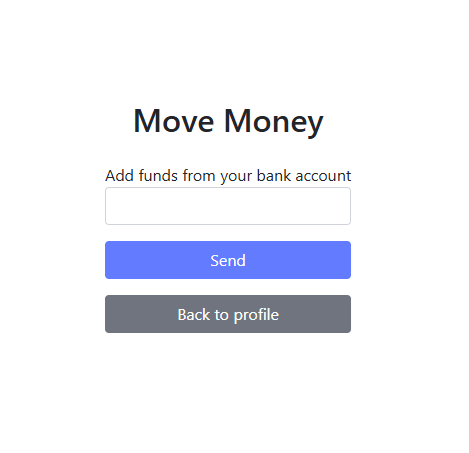
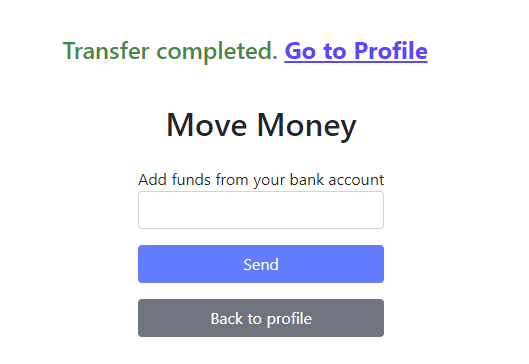
Put again slug and age fields to avoid bug. Add more content to the readme document

diff --git a/static/css/style.css b/static/css/style.css
@@ -108,22 +108,18 @@
 @media screen and (min-height: 800px) {
     .content-extention{
         margin-top: 68%;
-        margin-bottom: 68%;
     }
 
     .content-extention-2 {
         margin-top: 45%;
-        margin-bottom: 45%;
     }
     
     .content-extention-3 {
         margin-top: 75%;
-        margin-bottom: 75%;
     }
 
     .content-extention-4 {
         margin-top: 33%;
-        margin-bottom: 33%;
     }
 
     /* Footer */
@@ -143,22 +139,18 @@
 
     .content-extention{
         margin-top: 26%;
-        margin-bottom: 26%;
     }
 
     .content-extention-2 {
         margin-top: 25%;
-        margin-bottom: 25%;
     }
     
     .content-extention-3 {
         margin-top: 45%;
-        margin-bottom: 45%;
     }
 
     .content-extention-4 {
         margin-top: 38%;
-        margin-bottom: 38%;
     }
 
     #signup_form{
@@ -174,22 +166,18 @@
 
     .content-extention{
         margin-top: 37%;
-        margin-bottom: 37%;
     }
 
     .content-extention-2 {
-        margin-top: 35%;
-        margin-bottom: 35%;
+        margin-top: 3%;
     }
     
     .content-extention-3 {
         margin-top: 50%;
-        margin-bottom: 50%;
     }
 
     .content-extention-4 {
         margin-top: 38%;
-        margin-bottom: 38%;
     }
 
     #sig-up-container {
@@ -205,22 +193,19 @@
 
     .content-extention{
         margin-top: 13%;
-        margin-bottom: 13%;
     }
 
     .content-extention-2 {
-        margin-top: 14%;
-        margin-bottom: 14%;
+        margin-top: 8%;
     }
     
     .content-extention-3 {
         margin-top: 22%;
-        margin-bottom: 22%;
     }
 
     .content-extention-4 {
         margin-top: 18%;
-        margin-bottom: 18%;
+        
     }
 
     #sig-up-container {

diff --git a/saving/templates/account/change_pot_name.html b/saving/templates/account/change_pot_name.html
@@ -17,6 +17,13 @@
     <form method="post">
         {% csrf_token %}
         {{ change_name_form|crispy }}
+        <!-- Hide the Name label manually -->
+        <style>
+            .form-group label[for="id_name"],
+            .form-label[for="id_name"] {
+                display: none !important;
+            }
+        </style>
         <button type="submit" class="btn btn-primary">Change Name</button>
         <a href="{% url 'saving-pot-details' pot_id=saving_pot.id %}" class="btn btn-secondary">Cancel</a>
     </form>

diff --git a/saving/migrations/0008_profile_age_profile_slug.py b/saving/migrations/0008_profile_age_profile_slug.py
@@ -1,0 +1,23 @@
+# Generated by Django 4.2.13 on 2024-07-13 19:28
+
+from django.db import migrations, models
+
+
+class Migration(migrations.Migration):
+
+    dependencies = [
+        ('saving', '0007_alter_savingpot_balance'),
+    ]
+
+    operations = [
+        migrations.AddField(
+            model_name='profile',
+            name='age',
+            field=models.IntegerField(default=0),
+        ),
+        migrations.AddField(
+            model_name='profile',
+            name='slug',
+            field=models.SlugField(default='default-slug', max_length=200, unique=True),
+        ),
+    ]

diff --git a/saving/models.py b/saving/models.py
@@ -6,7 +6,8 @@ class Profile(models.Model):
     user = models.ForeignKey(
         User, on_delete=models.CASCADE, related_name="profile"
     )
-
+    slug = models.SlugField(max_length=200, unique=True, default="default-slug")
+    age = models.IntegerField(default=0)
     email = models.EmailField(max_length=200, unique=True)
     nominated_bank_account = models.DecimalField(max_digits=8, decimal_places=0)
     main_balance = models.DecimalField(max_digits=10, decimal_places=2, default=0.00)

diff --git a/README.md b/README.md
@@ -52,19 +52,21 @@ For project purposes the fundtionality for adding and takien funds from nominate
 - **Move Money**
   - The user adds funds from their bank account to the main balance
   - Back to profile button to go back to the profile 
+  - Successfull message will tell the user if it was successful and link to go back to profile page.
 
   ![Move money page](/static/images/move-money.png)
 
 - **Open new pot**
   - Will allow the user to create a new pot
   - User can name the pot
+  - Successfull message will tell the user if it was successful and link to go back to profile page.
 
   ![open new pot page](/static/images/open-new-pot.png) 
 
 - **Saving pot details**
   - Will show the amount the user have it the pot
   - Have the option to add funds from the main balance to the pod
-  - Close the pot option will direct the user to the close pot pageMain balance before adding funds to a pot
+  - Close the pot option will direct the user to the close pot Main balance before adding funds to a pot
 
   Main balance before transfering funds to pot
 
@@ -81,6 +83,12 @@ For project purposes the fundtionality for adding and takien funds from nominate
   Pot balance after adding funds
 
   ![saving pot balance after adding funds](/static/images/saving-pot-after-adding-funds.png)
+
+- **Change pot name**
+  - User can change the name of current pot.
+  - Successfull message will tell the user if it was successful and link to go back to profile page.
+
+  ![imae of the change pot name with successful message](/static/images/change-pot-name.png)
 
 - **Closing pot**
   - Allow the user to close the account and send the funds to their bank account
@@ -110,6 +118,13 @@ For project purposes the fundtionality for adding and takien funds from nominate
 
  - Wen making changes to any of the models the messages didn't display in the screen, because of this the user was redirected to the profile page after any changes. Adding a for loop in the html pages and the reverse method it was posible to add a link to return in the profile page and display the success message. This process was repeated in the different views.
 
- View without the reverse
-![view without reverse in](/static/images/view-without-reverse.png)
+ View without reverse link
+
+ ![image of view without reverse link](/static/images/view-without-reverse.png)
+
+ View with reverse link
+
+ ![image if view with reverse](/static/images/view-with-reverse.png)
+
+
 
